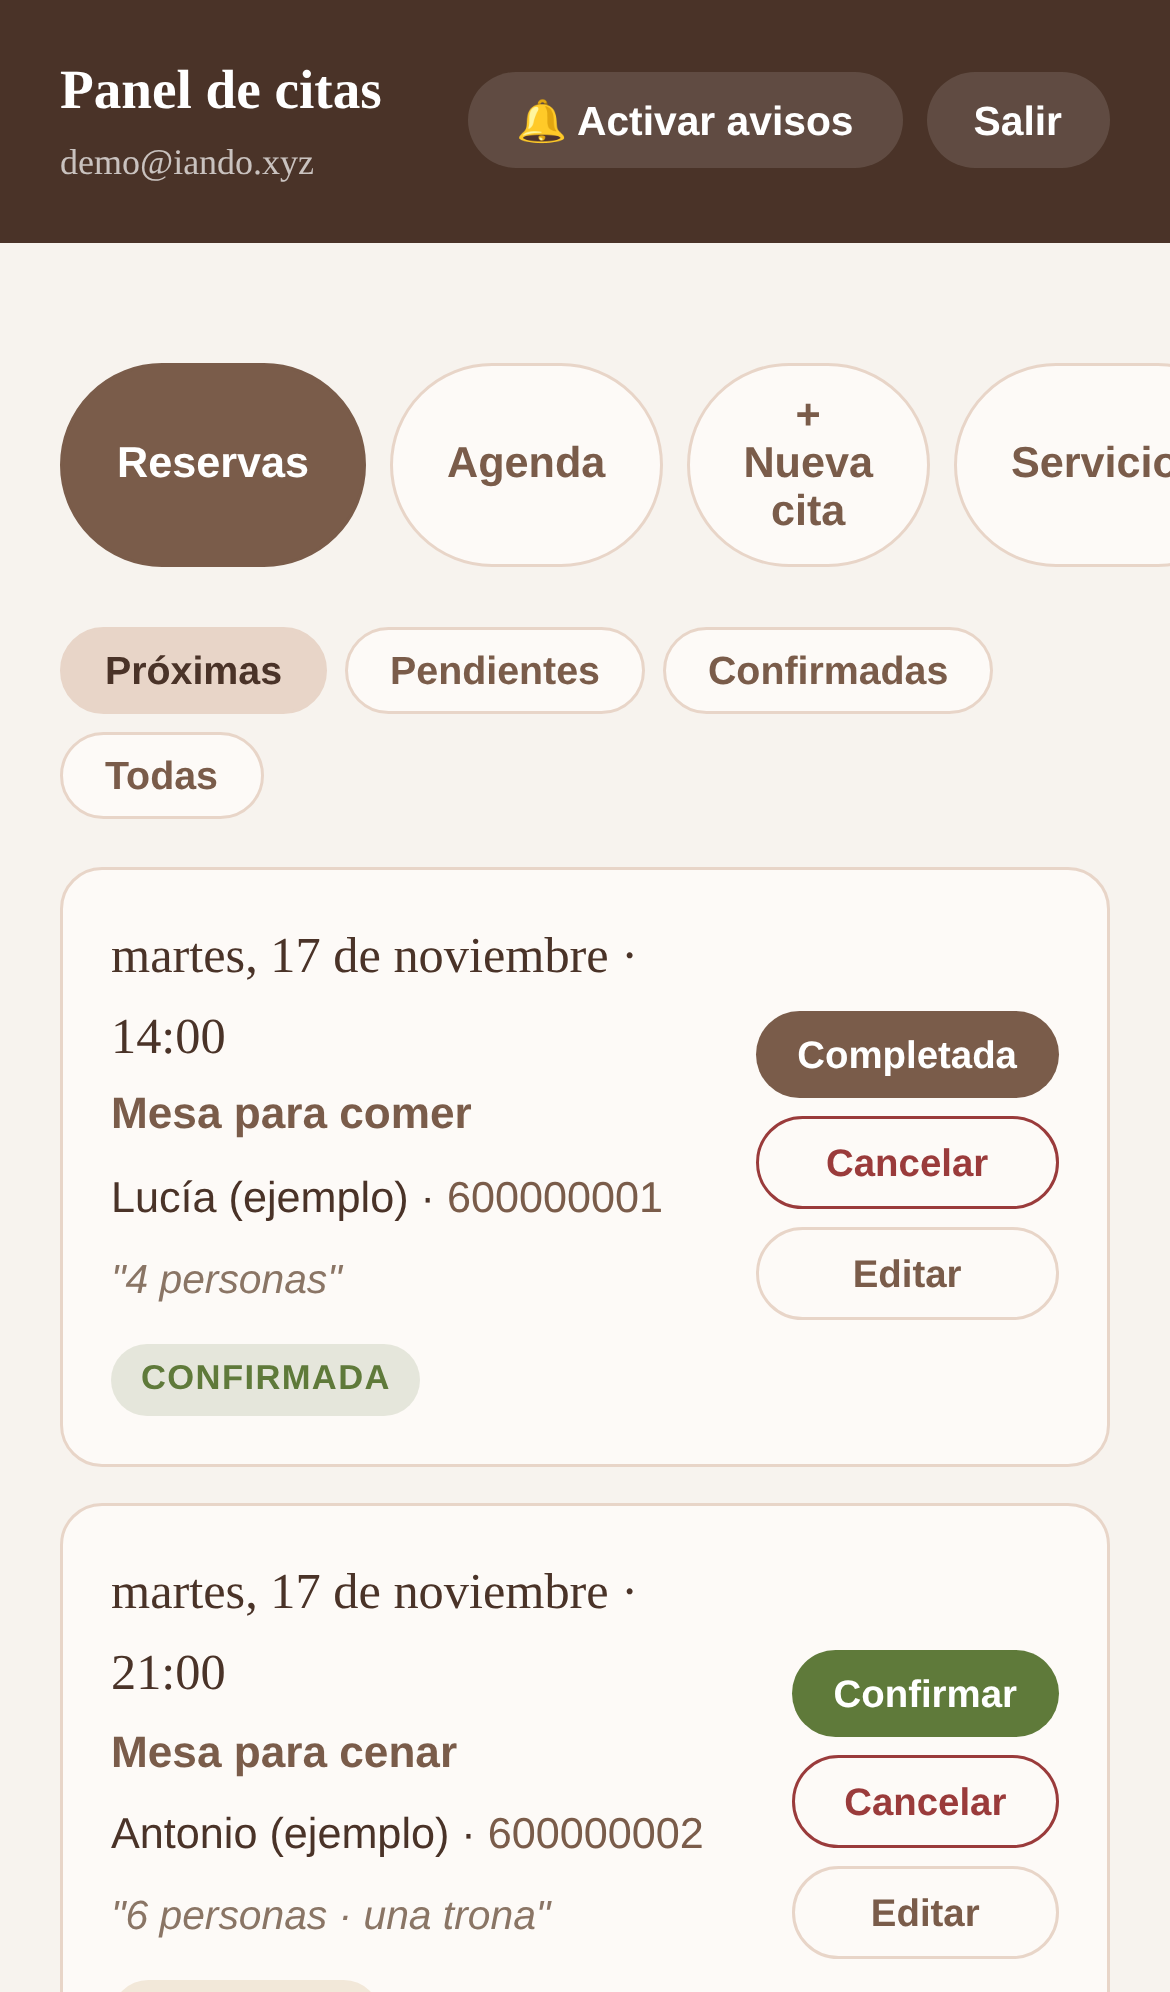
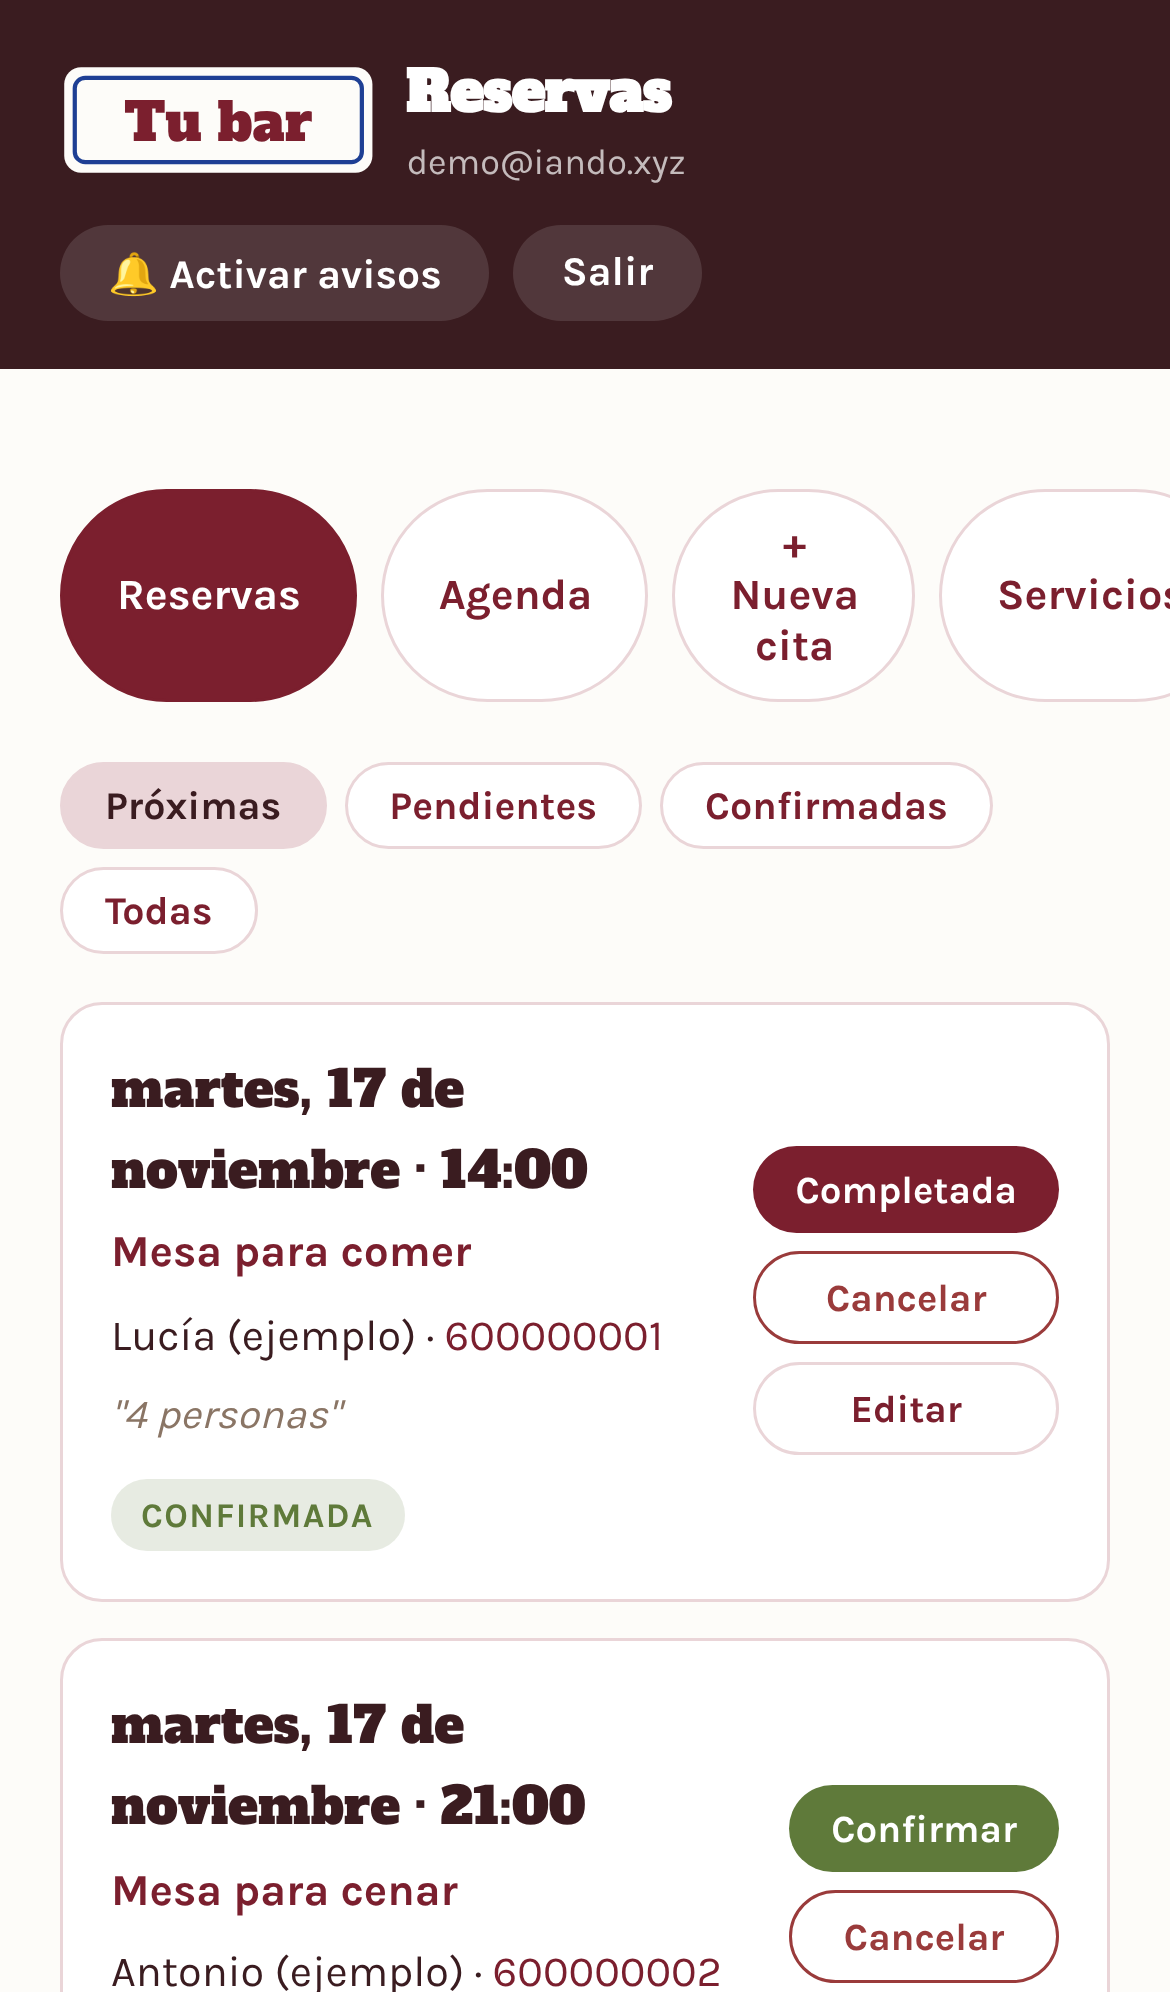
Panel de citas con el aspecto de cada negocio (negocios.config.tema)
Colores, fuentes y logotipo del negocio en el panel; sin tema se queda como estaba.
El método de reservas pide al Configurador rellenar el tema.

diff --git a/taller/reservas/admin.html b/taller/reservas/admin.html
@@ -16,10 +16,17 @@
   :root{
     --cream:#F7F3EE; --rose:#E8D5C8; --earth:#7A5C4A; --earth-dark:#4A3328;
     --white-warm:#FDFAF7; --ok:#5f7a3a; --bad:#9a3b3b; --warn:#b5892f;
+    --f-tit:'Playfair Display',serif; --f-txt:'Lato',sans-serif;
   }
   *{box-sizing:border-box;margin:0;padding:0}
-  body{font-family:'Lato',sans-serif;background:var(--cream);color:var(--earth-dark);line-height:1.6}
-  h1,h2,h3{font-family:'Playfair Display',serif;font-weight:600}
+  body{font-family:var(--f-txt);background:var(--cream);color:var(--earth-dark);line-height:1.6}
+  h1,h2,h3{font-family:var(--f-tit);font-weight:600}
+  .marca{display:flex;align-items:center;gap:10px}
+  .marca svg{height:38px;width:auto;display:block}
+  .topbar h1 small{font-family:var(--f-txt)}
+  .login-card .marca{justify-content:center;margin-bottom:10px}
+  .login-card .marca{background:var(--earth-dark);border-radius:14px;padding:12px 16px;width:fit-content;margin:0 auto 12px}
+  .login-card .marca svg{height:48px}
   a{color:var(--earth)}
   .wrap{max-width:900px;margin:0 auto;padding:20px}
 
@@ -55,7 +62,7 @@
 
   .reserva{background:var(--white-warm);border:1px solid var(--rose);border-radius:14px;padding:16px;margin-bottom:12px;display:flex;justify-content:space-between;gap:14px;flex-wrap:wrap}
   .reserva .info{flex:1;min-width:200px}
-  .reserva .fecha{font-family:'Playfair Display',serif;font-size:1.05rem;color:var(--earth-dark)}
+  .reserva .fecha{font-family:var(--f-tit);font-size:1.05rem;color:var(--earth-dark)}
   .reserva .serv{color:var(--earth);font-weight:700;font-size:.92rem;margin-top:2px}
   .reserva .cli{font-size:.9rem;margin-top:4px}
   .reserva .cli a{text-decoration:none}
@@ -77,7 +84,7 @@
   .agenda-nav .chip{font-size:1.3rem;line-height:1;padding:6px 16px;font-weight:700}
   .ag-resumen{text-align:center;font-size:.85rem;color:var(--earth);margin-bottom:14px;font-weight:700;letter-spacing:.02em}
   .slot{display:flex;align-items:center;gap:12px;padding:12px 14px;border-radius:12px;margin-bottom:8px;border:1px solid var(--rose);background:var(--white-warm)}
-  .slot .hora{font-family:'Playfair Display',serif;font-weight:600;min-width:52px;color:var(--earth-dark)}
+  .slot .hora{font-family:var(--f-tit);font-weight:600;min-width:52px;color:var(--earth-dark)}
   .slot .det{flex:1;min-width:0}
   .slot .det b{font-weight:700}
   .dot{width:11px;height:11px;border-radius:50%;flex:none}
@@ -91,8 +98,8 @@
   /* Vista semana */
   .wday{background:var(--white-warm);border:1px solid var(--rose);border-radius:12px;padding:10px 12px;margin-bottom:8px}
   .wday.hoy{border-color:var(--earth);border-width:2px}
-  .wday-head{display:flex;justify-content:space-between;align-items:center;font-family:'Playfair Display',serif;font-weight:600;margin-bottom:8px;cursor:pointer;text-transform:capitalize}
-  .wday-head .wsum{font-family:'Lato',sans-serif;font-size:.76rem;color:var(--earth);font-weight:700;text-transform:none}
+  .wday-head{display:flex;justify-content:space-between;align-items:center;font-family:var(--f-tit);font-weight:600;margin-bottom:8px;cursor:pointer;text-transform:capitalize}
+  .wday-head .wsum{font-family:var(--f-txt);font-size:.76rem;color:var(--earth);font-weight:700;text-transform:none}
   .wchips{display:flex;flex-wrap:wrap;gap:6px}
   .wchip{min-width:40px;text-align:center;padding:6px 4px;border-radius:8px;font-size:.8rem;font-weight:700}
   .wchip.g{background:rgba(95,122,58,.13);color:var(--ok);border:1px dashed rgba(95,122,58,.45);cursor:pointer}
@@ -118,6 +125,7 @@
 <!-- LOGIN -->
 <div id="login">
   <div class="card login-card">
+    <div class="marca" id="logoLogin" hidden></div>
     <h1>Panel de citas</h1>
     <p id="nombreNegocio">&nbsp;</p>
     <label for="email">Correo</label>
@@ -132,7 +140,7 @@
 <!-- DASHBOARD -->
 <div id="app">
   <div class="topbar">
-    <div><h1>Panel de citas<small id="userEmail"></small></h1></div>
+    <div class="marca"><span id="logoTop" hidden></span><h1><span id="tituloPanel">Panel de citas</span><small id="userEmail"></small></h1></div>
     <div style="display:flex;gap:8px">
       <button class="logout" id="btnAvisos">🔔 Activar avisos</button>
       <button class="logout" id="btnLogout">Salir</button>
@@ -300,6 +308,38 @@ async function cargarNegocio() {
     document.getElementById("nombreNegocio").textContent = data.nombre;
     document.title = "Citas · " + data.nombre;
     if (data.config && data.config.horario) CFG = { ...CFG, ...data.config };
+    if (data.config && data.config.tema) aplicarTema(data.config.tema, data.nombre);
+  }
+}
+// Aspecto de cada negocio: negocios.config.tema = {"nombre", "colores": {"fondo","tarjeta","borde","primario","oscuro"},
+// "fuentes": {"titulos","texto"} (Google Fonts), "logo_svg": "<svg…>"}. Sin tema se queda el aspecto de siempre.
+function aplicarTema(t, nombre) {
+  const raiz = document.documentElement.style, c = t.colores || {}, hex = (v) => /^#[0-9a-f]{3,8}$/i.test(v || "");
+  const mapa = { fondo: "--cream", tarjeta: "--white-warm", borde: "--rose", primario: "--earth", oscuro: "--earth-dark" };
+  Object.entries(mapa).forEach(([k, v]) => { if (hex(c[k])) raiz.setProperty(v, c[k]); });
+  if (hex(c.oscuro)) { const m = document.querySelector('meta[name="theme-color"]'); if (m) m.content = c.oscuro; }
+  // Cada fuente como en Google Fonts: "Karla:wght@400;700" o solo "Alfa Slab One" (peso normal)
+  const f = t.fuentes || {}, limpia = (s) => String(s || "").replace(/[^A-Za-z0-9 :@;.,]/g, "").trim();
+  const pf = limpia(f.titulos), px = limpia(f.texto), ft = pf.split(":")[0].trim(), fx = px.split(":")[0].trim();
+  if (ft || fx) {
+    const fam = [pf, px].filter(Boolean).map((x) => "family=" + x.replace(/ /g, "+")).join("&");
+    const l = document.createElement("link"); l.rel = "stylesheet"; l.href = "https://fonts.googleapis.com/css2?" + fam + "&display=swap"; document.head.appendChild(l);
+    if (ft) raiz.setProperty("--f-tit", "'" + ft + "', Georgia, serif");
+    if (fx) raiz.setProperty("--f-txt", "'" + fx + "', system-ui, sans-serif");
+  }
+  const nom = t.nombre || nombre;
+  document.getElementById("tituloPanel").textContent = t.logo_svg ? "Reservas" : nom;
+  document.getElementById("nombreNegocio").textContent = "Reservas de " + nom;
+  document.title = "Reservas · " + nom;
+  if (t.logo_svg && /^\s*<svg[\s>]/i.test(t.logo_svg)) {
+    // Se pinta en línea (para que use las fuentes del negocio) quitando scripts, enlaces y eventos
+    const doc = new DOMParser().parseFromString(t.logo_svg, "image/svg+xml"), svg = doc.documentElement;
+    if (svg && svg.nodeName.toLowerCase() === "svg" && !doc.querySelector("parsererror")) {
+      svg.querySelectorAll("script,foreignObject,a,use,image,iframe,style").forEach((n) => n.remove());
+      [svg, ...svg.querySelectorAll("*")].forEach((n) => [...n.attributes].forEach((at) => { if (/^on|href$/i.test(at.name)) n.removeAttribute(at.name); }));
+      svg.setAttribute("role", "img"); svg.setAttribute("aria-label", nom);
+      ["logoTop", "logoLogin"].forEach((id) => { const el = document.getElementById(id); el.innerHTML = ""; el.appendChild(document.importNode(svg, true)); el.hidden = false; });
+    }
   }
 }
 function fillHoras(sel, fecha, seleccion) {

diff --git a/taller/METODO-RESERVAS.md b/taller/METODO-RESERVAS.md
@@ -27,6 +27,16 @@ dos negocios.
        "intervalo_min": 30, "antelacion_horas": 2, "dias_max": 60, "zona": "Europe/Madrid"}') returning id;
    insert into public.servicios (negocio_id, nombre, precio_desde, duracion_minutos) values (...);
    ```
+   Además, para que **el panel de citas tenga el aspecto del negocio**, añade al `config` la clave `tema`
+   (sale de `ficha.estilo` y del logotipo de la demo; sin `tema` el panel se ve con el aspecto genérico):
+   ```json
+   "tema": {"nombre": "Tu bar",
+            "colores": {"fondo": "#…", "tarjeta": "#…", "borde": "#… (suave)", "primario": "#… (botones)", "oscuro": "#… (barra de arriba, con texto blanco)"},
+            "fuentes": {"titulos": "Alfa Slab One", "texto": "Karla:wght@400;700"},
+            "logo_svg": "<svg xmlns=\"http://www.w3.org/2000/svg\" …>…</svg>"}
+   ```
+   Las fuentes se escriben como en Google Fonts (con `:wght@…` solo si la familia tiene esos pesos). El logo
+   va sobre el color `oscuro`: que se lea encima. Si el logo se cambia al maquetar, actualiza también el `tema`.
    `1` = lunes … `7` = domingo; día cerrado = `[]`. `intervalo_min` = cada cuánto empieza
    una cita (normalmente 30, o la duración si todas son iguales). Guarda el `negocio_id`
    en `centro.encargos.ficha.negocio_id`.
